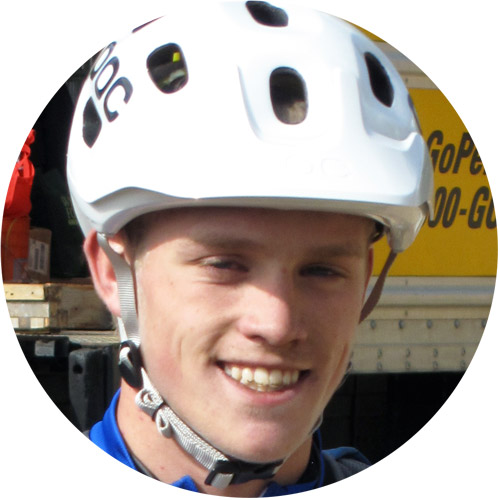
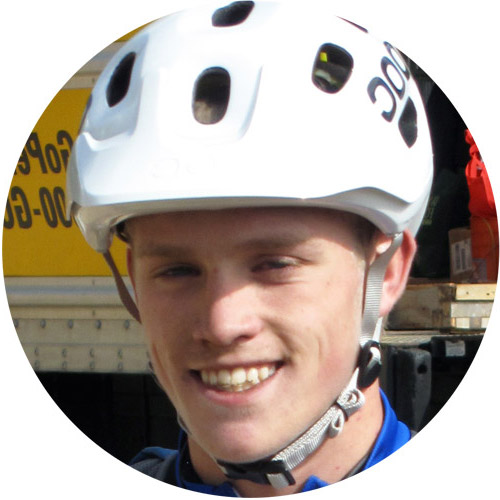
added photos of family and smiles

diff --git a/app/styles/02-layout/_l-index.scss b/app/styles/02-layout/_l-index.scss
@@ -137,9 +137,23 @@ footer {
   }
 }
 
+.l-footer-column {
+  @include grid-column(12);
+  @media #{$medium-up} {
+    @include grid-column(4);
+  }
+}
+.l-footer-awards {
+  margin-bottom: $global-margin;
+  > img {
+    margin-left: $global-margin;
+  }
+}
+
 .l-website-credit {
   @include grid-column(12);
   margin-top: $global-margin;
+  margin-bottom: -$global-margin;
 }
 
 

diff --git a/app/styles/03-modules/_m-about.scss b/app/styles/03-modules/_m-about.scss
@@ -4,11 +4,15 @@
   @media #{$medium-up} {
     @include grid-column(6);
   }
+  > img {
+    margin-bottom: $global-margin;
+  }
 }
 
 .m-about-button {
   @include button($bg: #fff, $radius: 50px);
   border: 2px solid $primary-color;
+  margin-right: $global-margin;
   &:hover {
     background-color: $primary-color;
     color: white;
